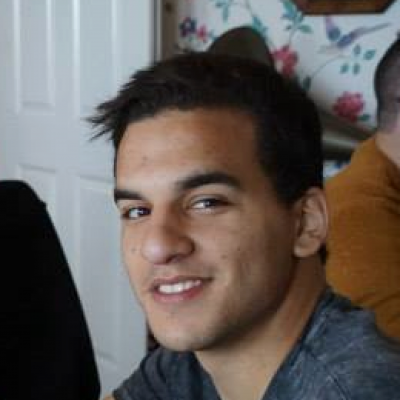
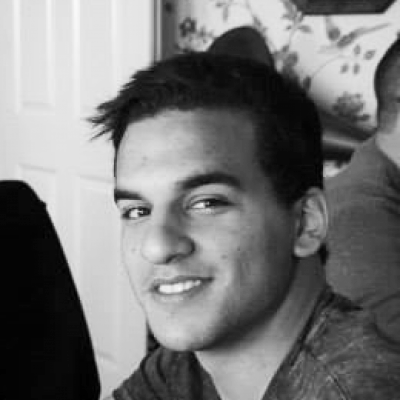
change speaker images

diff --git a/index.html b/index.html
@@ -126,7 +126,7 @@
           <div class="talks__item">
             <article class="talk">
               <div class="talk__speaker">
-                <div class="talk__speaker-photo" style="background-image:url('assets/images/content/Priniciya.jpg')">
+                <div class="talk__speaker-photo" style="background-image:url('assets/images/content/Princiya.png')">
                 </div>
                 <div class="talk__speaker-title">
                   <h2 class="talk__speaker-name">
@@ -150,7 +150,7 @@
           <div class="talks__item">
             <article class="talk">
               <div class="talk__speaker">
-                <div class="talk__speaker-photo" style="background-image:url('assets/images/content/Martin.jpg')">
+                <div class="talk__speaker-photo" style="background-image:url('assets/images/content/Martin.png')">
                 </div>
                 <div class="talk__speaker-title">
                   <h2 class="talk__speaker-name">
@@ -173,7 +173,7 @@
           <div class="talks__item">
             <article class="talk">
               <div class="talk__speaker">
-                <div class="talk__speaker-photo" style="background-image:url('assets/images/content/Fabian.jpeg')">
+                <div class="talk__speaker-photo" style="background-image:url('assets/images/content/Fabian.png')">
                 </div>
                 <div class="talk__speaker-title">
                   <h2 class="talk__speaker-name">
@@ -221,6 +221,13 @@
             </p>
           </div>
         </div>
+<!--         <div class="colorful__content">
+          <h2 class="colorful__title">Partners</h2>
+          <div class="colorful__text">
+            <p>
+            </p>
+          </div>
+        </div>  -->
         <!-- <div class="colorful__content">
           <h2 class="colorful__title">Special thanks</h2>
           <div class="colorful__text">
